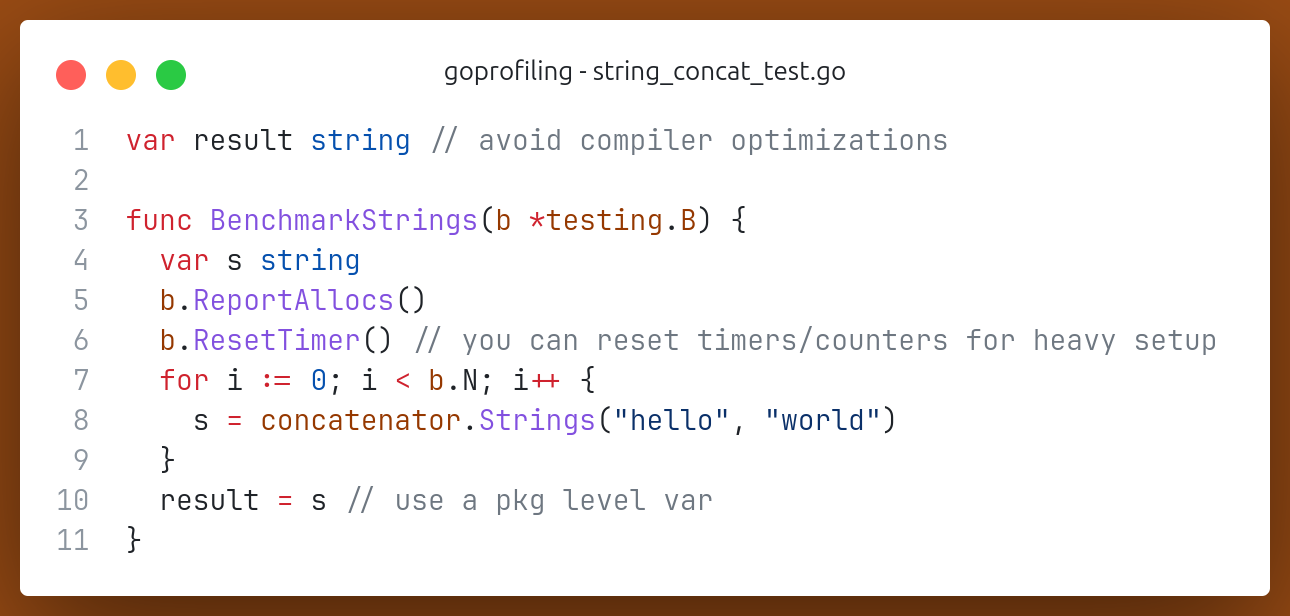
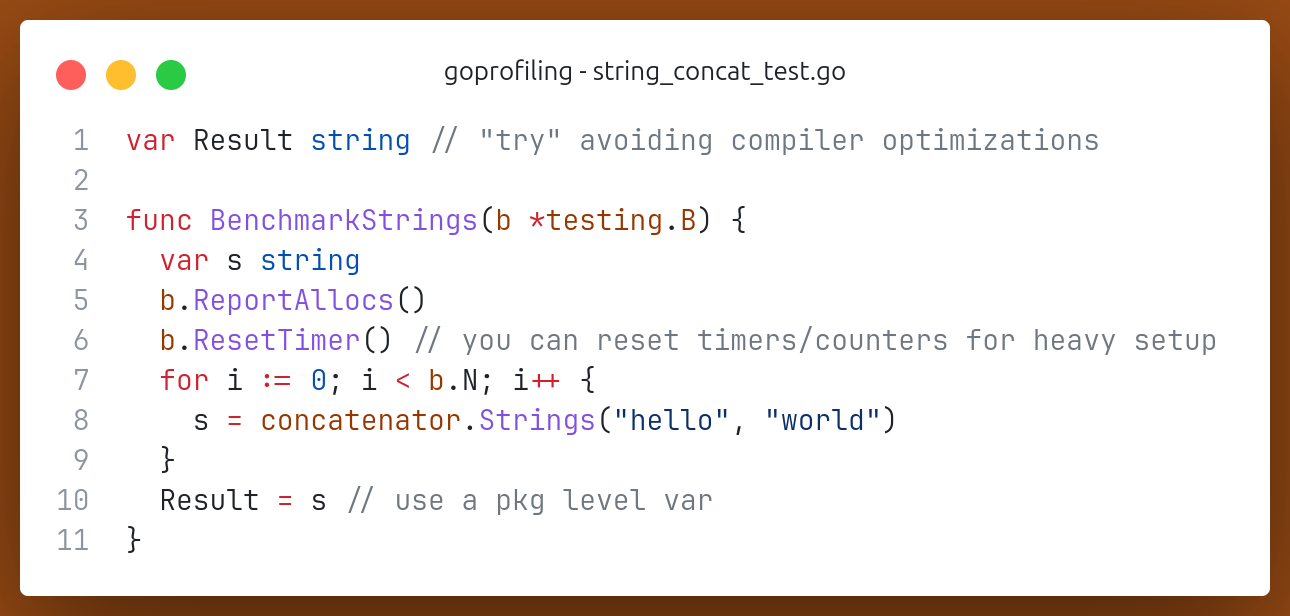
benchmark 1.24

Changed region(s): [[0.5891, 0.2159, 0.8682, 0.2468], [0.3721, 0.2159, 0.5581, 0.2468], [0.124, 0.8019, 0.155, 0.8328]]

diff --git a/jwt-parser-vulnerable/logic/parser_test.go b/jwt-parser-vulnerable/logic/parser_test.go
@@ -8,9 +8,9 @@ import (
 )
 
 var (
-	g_token *jwt.Token
-	g_parts []string
-	g_err   error
+	Token *jwt.Token
+	Parts []string
+	Err   error
 )
 
 func BenchmarkParseUnverified(b *testing.B) {
@@ -26,7 +26,17 @@ func BenchmarkParseUnverified(b *testing.B) {
 	for i := 0; i < b.N; i++ {
 		token, parts, err = parser.ParseUnverified(rawToken, &claims)
 	}
-	g_token = token
-	g_parts = parts
-	g_err = err
+	Token = token
+	Parts = parts
+	Err = err
+}
+
+func BenchmarkParseUnverified_1_24(b *testing.B) {
+	parser := jwt.NewParser()
+	rawToken := strings.Repeat("1.", 10_000)
+	claims := jwt.MapClaims{}
+	b.ReportAllocs()
+	for b.Loop() {
+		parser.ParseUnverified(rawToken, &claims)
+	}
 }

diff --git a/benchmarking/concatenator/string_concat_test.go b/benchmarking/concatenator/string_concat_test.go
@@ -6,7 +6,7 @@ import (
 	"benchmarking/concatenator"
 )
 
-var result string // avoid compiler optimizations
+var Result string // "try" avoiding compiler optimizations
 
 func BenchmarkStrings(b *testing.B) {
 	var s string
@@ -15,5 +15,14 @@ func BenchmarkStrings(b *testing.B) {
 	for i := 0; i < b.N; i++ {
 		s = concatenator.Strings("hello", "world")
 	}
-	result = s // use a pkg level var
+	Result = s // use a pkg level var
+}
+
+func BenchmarkStrings_1_24(b *testing.B) {
+	b.ReportAllocs()
+	// "b.Loop" tell when to stop
+	for b.Loop() {
+		// this won't be subject to dead code elimination
+		concatenator.Strings("hello", "world")
+	}
 }
